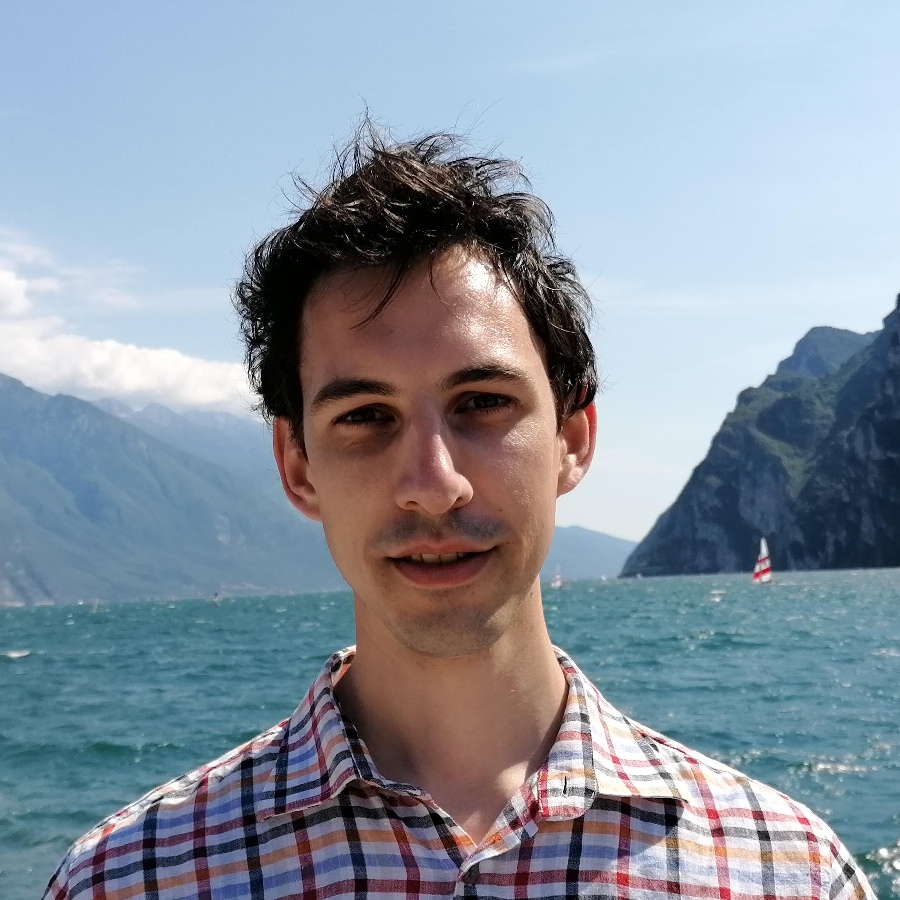
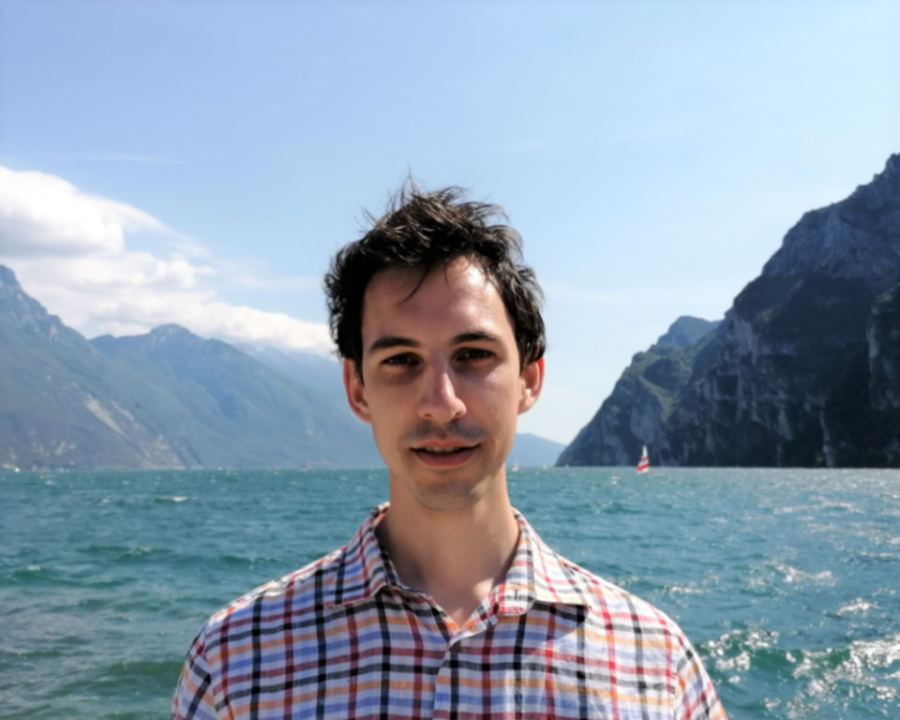
upd

diff --git a/index.html b/index.html
@@ -38,8 +38,9 @@
               Hey everyone, I'm Tim - 29 - Dutch. I used to be a law student specialising
               in Law and Technology, but then it turned out that I find technology itself 
               a lot more fun and interesting than arguing about it as a lawyer...<br>
-              This year I decided to chase my dream of becoming a programmer and I'm really excited to 
-              start making it happen at Codaisseur and meet you all on Monday!
+              So after I finished my master I decided I want to chase my dream 
+              of becoming a programmer. Now I'm really excited to start making it happen at 
+              Codaisseur and look forward to meeting you all on Monday!
               <br><br>
               P.S. I'm not so sure about the color scheme of the website so please keep clicking the Random
               button at the top until it looks good to you.

diff --git a/styles/style.css b/styles/style.css
@@ -85,7 +85,7 @@ button {
 section, nav, #footer-content {
   width: 90%;
   min-width: 480px;
-  max-width: 1000px;
+  max-width: 900px;
   margin: 0 auto;
 }
 
@@ -116,14 +116,14 @@ header, section {
 
 #myPicture {
   margin-bottom: 2rem;
-  width: 60%;
-  border-radius: 10%;
+  width: 80%;
+  border-radius: 10px;
   border: 2px solid var(--textColor);
 }
 
 #intro {
   grid-area: intro;
-  padding-right: 20%
+  padding-right: 10%
 }
 
 #interests {
@@ -179,7 +179,7 @@ header, section {
 
 .text {
   text-align: left;
-  padding: 0 10%;
+  padding: 0 5%;
   margin-bottom: 2rem;
 }
 
